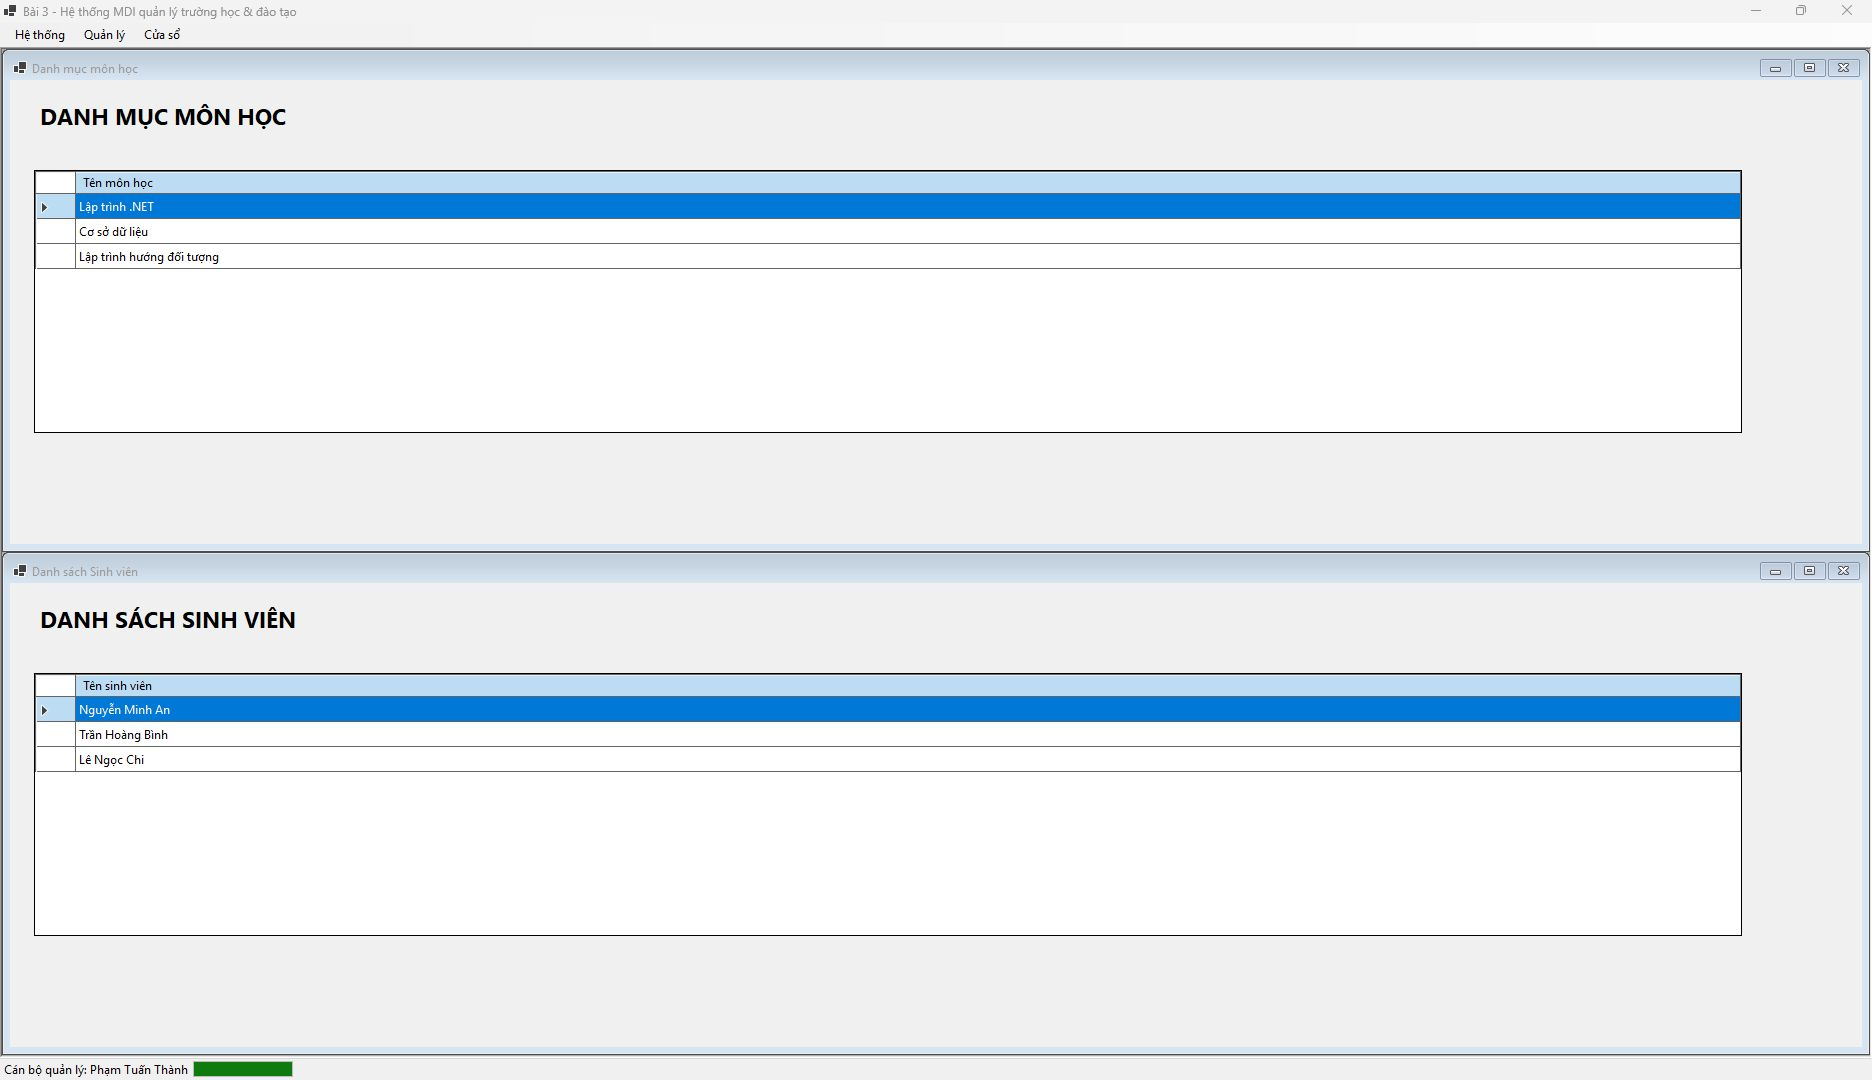
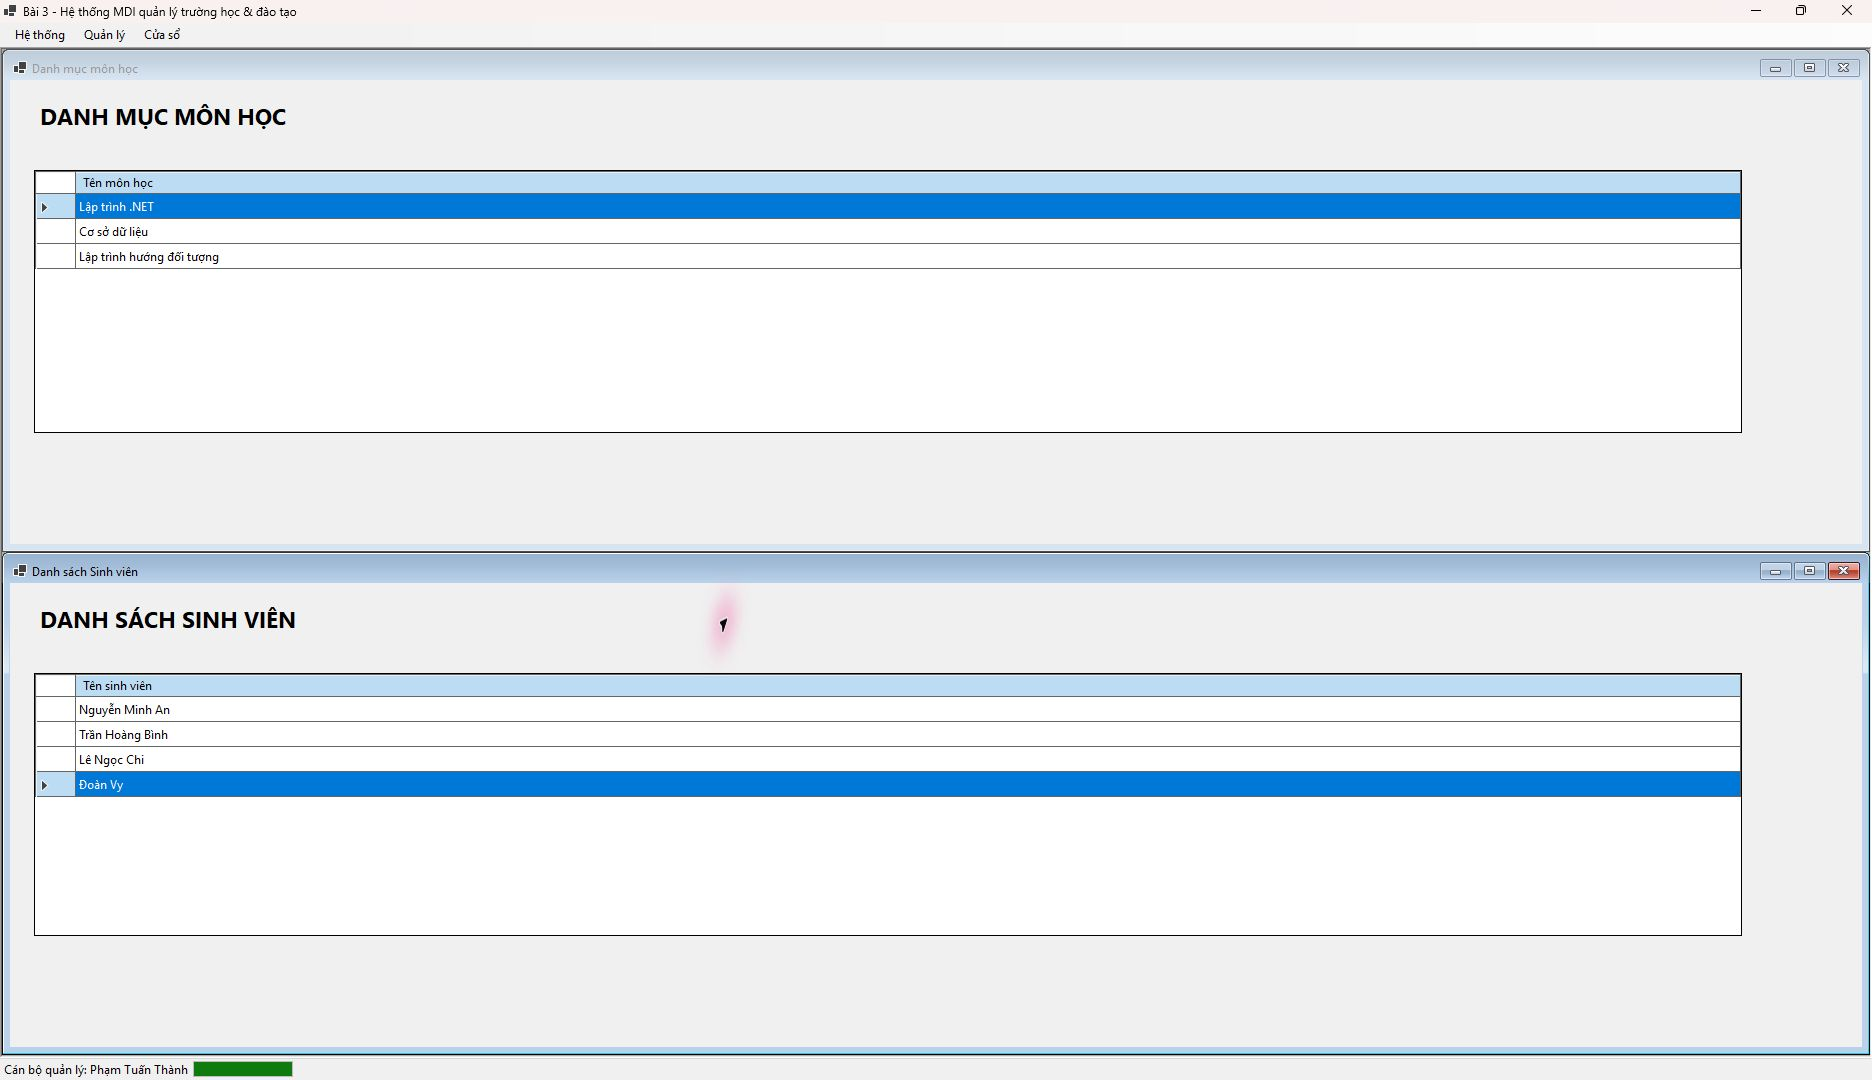
Refresh MDI sample screenshot with Doan Vy

diff --git a/README.md b/README.md
@@ -73,7 +73,7 @@ CSV hỗ trợ dấu phẩy, dấu ngoặc kép và xuống dòng trong trườn
 
 ![Khung MDI và hai Form con](docs/bai3_mdi.png)
 
-*Mô tả: Hai Form con xếp ngang, mỗi danh sách có 3 dòng dữ liệu minh họa được nạp trong phiên chụp ảnh.*
+*Mô tả: Hai Form con xếp ngang, hiển thị 4 sinh viên (gồm Đoàn Vy) và 3 môn học minh họa được nạp trong phiên chụp ảnh.*
 
 Phạm vi chưa có đặc tả được ghi ở phần II, không tự coi các menu giải thích phạm vi là chức năng quản lý hồ sơ hoàn chỉnh.
 
